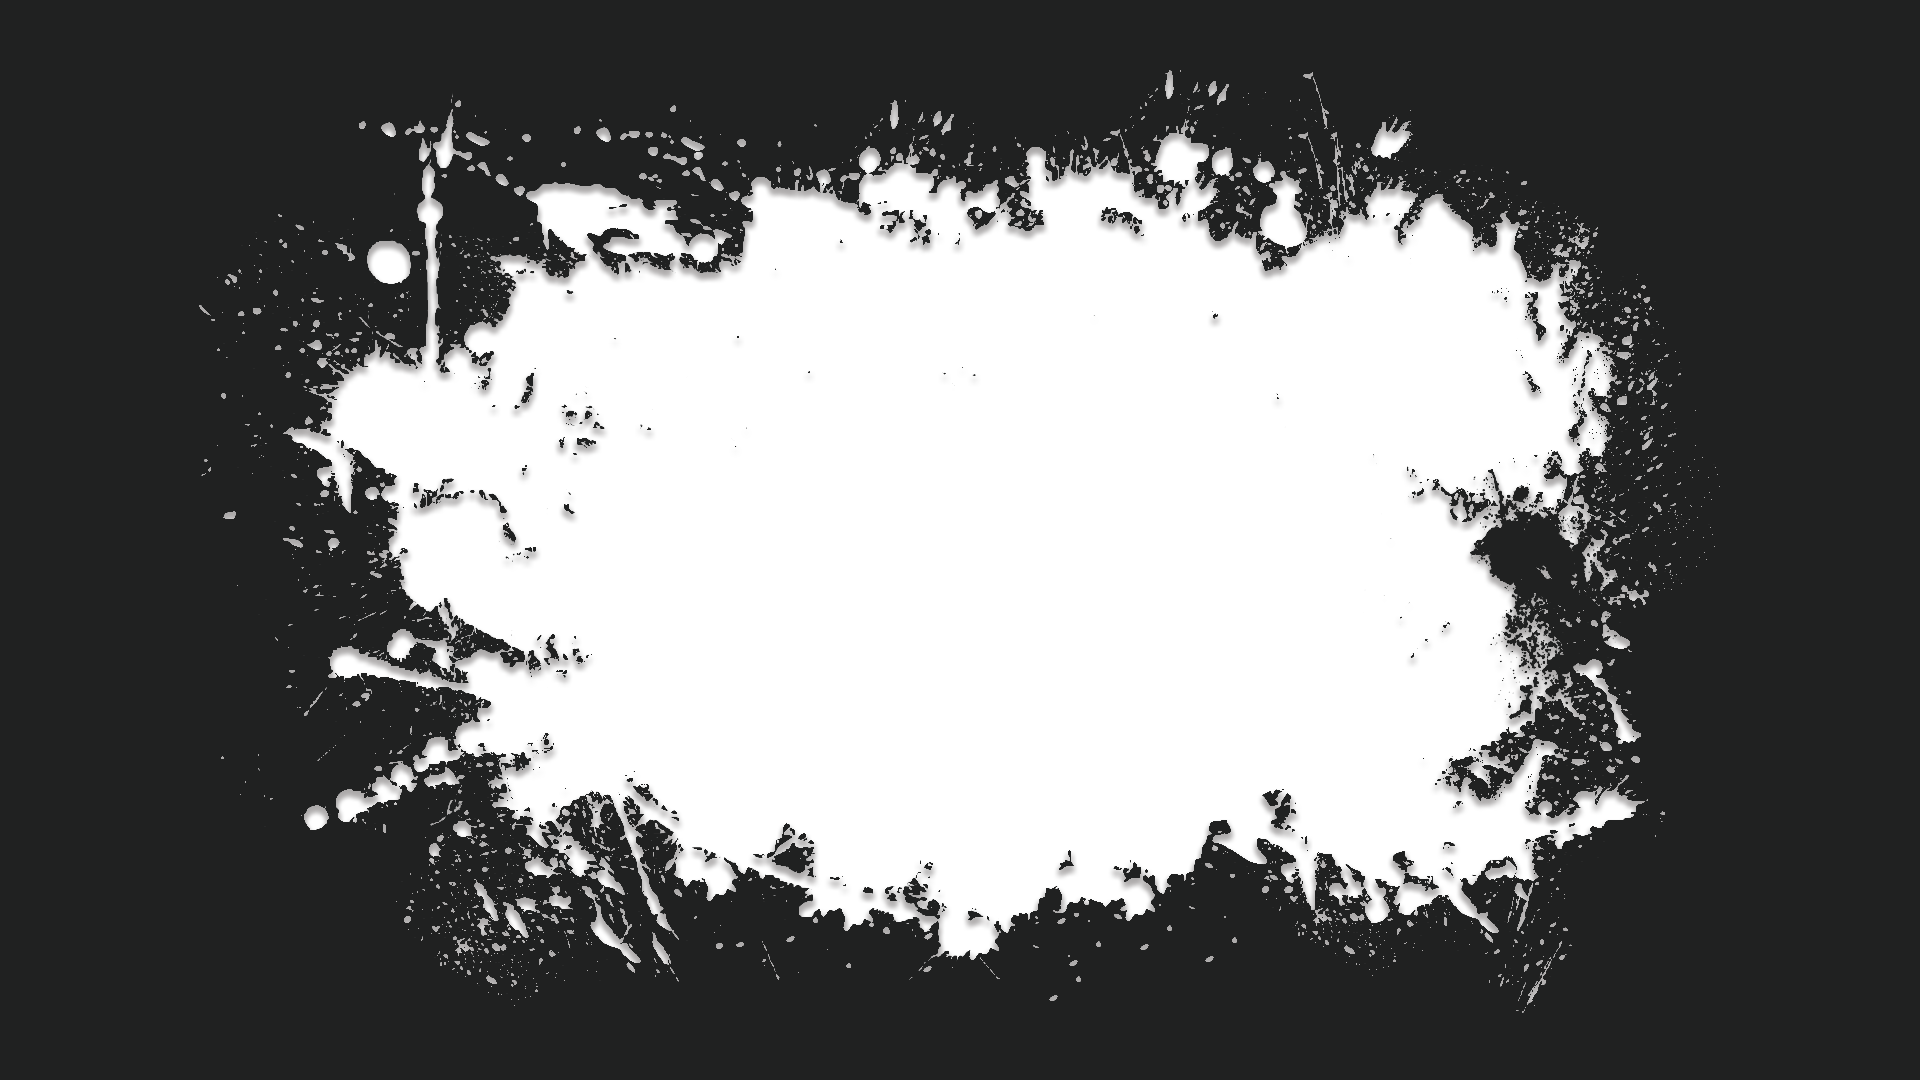
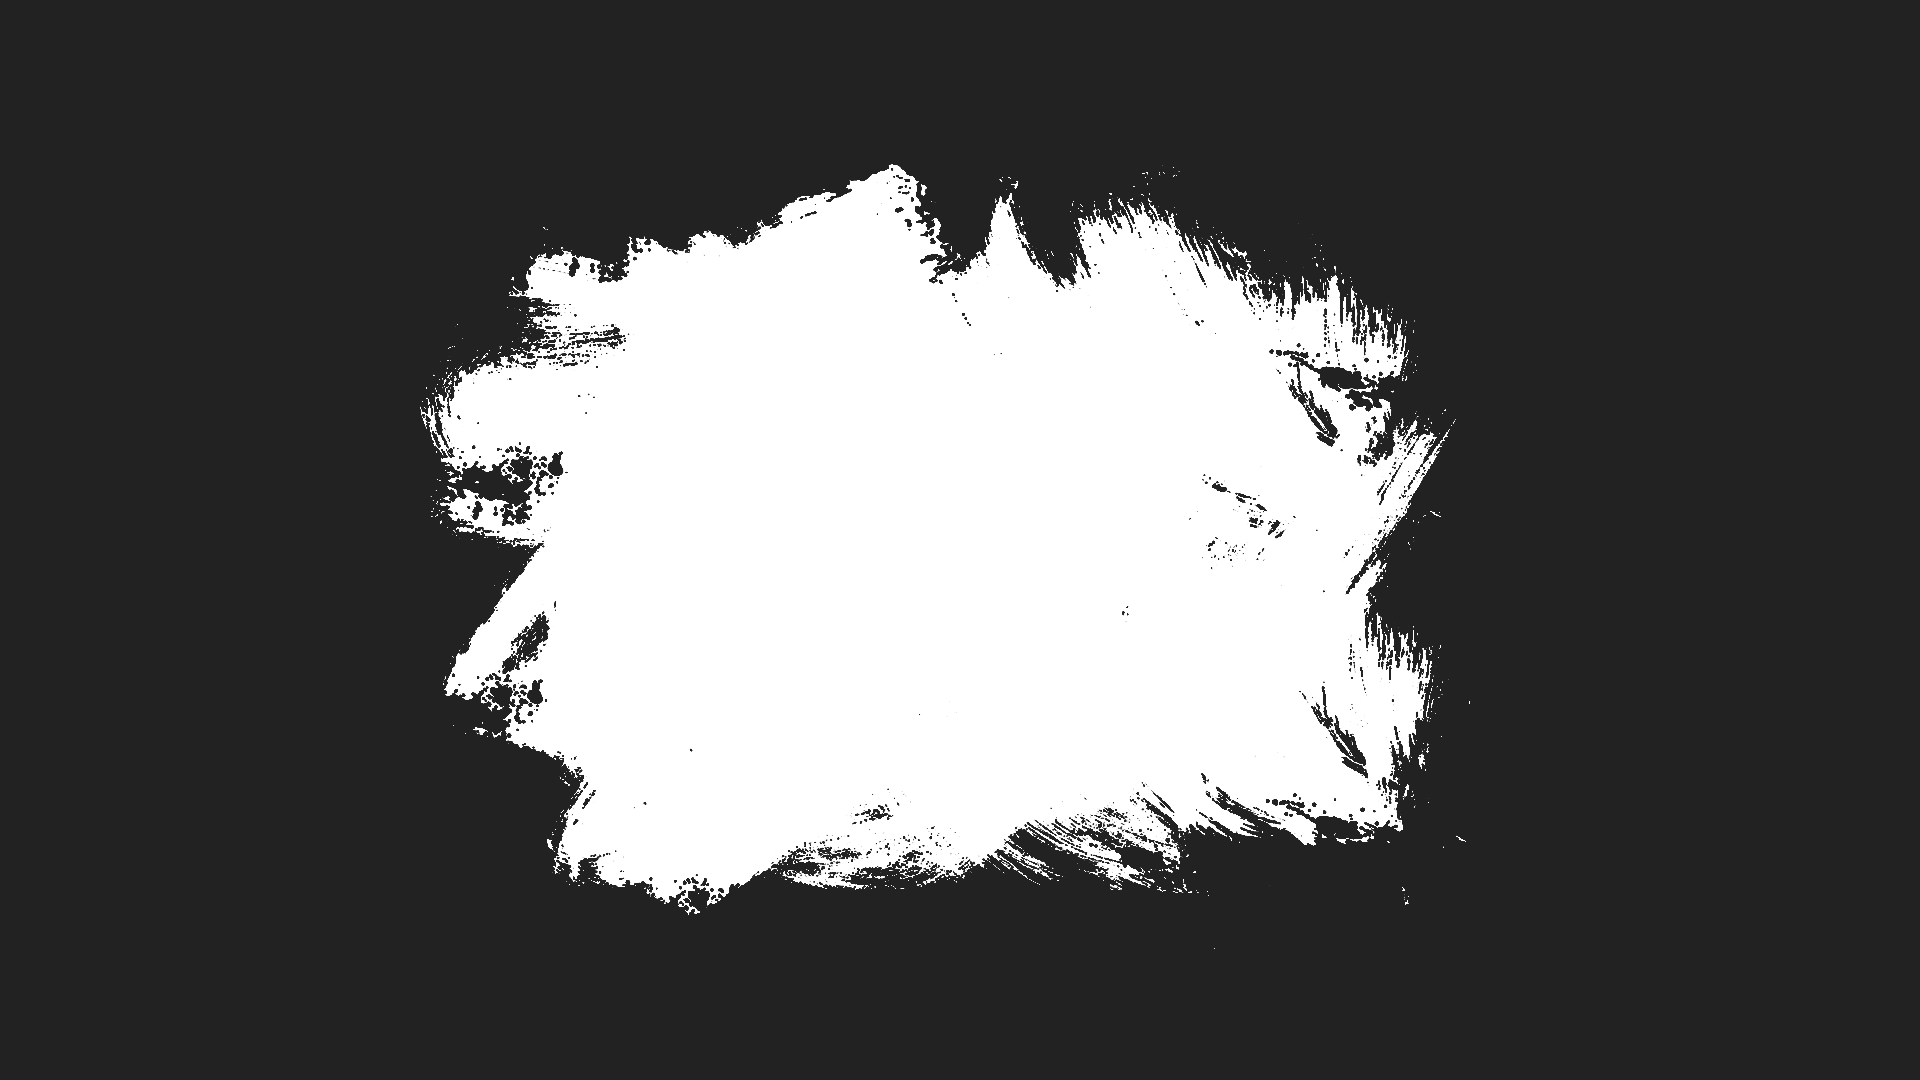
자기소개 웹 페이지 서브 메뉴 구현 및 메인 배경 수정

Changed region(s): [[0.1562, 0.0917, 0.875, 0.8861], [0.7812, 0.8861, 0.8125, 0.9167], [0.5938, 0.0611, 0.625, 0.0917]]

diff --git a/Self_Introduction/css/main.css b/Self_Introduction/css/main.css
@@ -39,6 +39,8 @@
 
     user-select: none;
 
+    object-fit: none;
+
     mix-blend-mode: screen;
 }
 
@@ -63,6 +65,8 @@
 
     user-select: none;
 
+    object-fit: none;
+
     mix-blend-mode: normal;
 }
 
@@ -72,14 +76,14 @@
 }
 
 .main__title {
-    font-size: 4vw;
+    font-size: 4em;
     letter-spacing: 4px;
 
     position: relative;
 
     color: white;
 
-    text-shadow: 0px 3px 3px rgba(0, 0, 0, 0.4);
+    text-shadow: 0px 1px 3px rgba(0, 0, 0, 0.6);
 
     z-index: 3;
 
@@ -87,12 +91,70 @@
 }
 
 .main span {
-    font-size: 1vw;
+    font-size: 1.5em;
     font-weight: 700;
 
     color: white;
 
-    text-shadow: 0px 1px 1px rgba(0, 0, 0, 0.4);
+    text-shadow: 0px 1px 1px rgba(0, 0, 0, 0.6);
 
     position: relative;
+}
+
+@media (max-width: 966px) {
+    .main__title {
+        font-size: 3.5em;
+        letter-spacing: 4px;
+    
+        position: relative;
+    
+        color: white;
+    
+        text-shadow: 0px 1px 3px rgba(0, 0, 0, 0.6);
+    
+        z-index: 3;
+    
+        transition: 0.5s;
+    }
+
+    .main span {
+        font-size: 1.3em;
+        font-weight: 700;
+    
+        color: white;
+    
+        text-shadow: 0px 1px 1px rgba(0, 0, 0, 0.6);
+    
+        position: relative;
+    }
+}
+
+@media (max-width: 768px) {
+    .main__title {
+        font-size: 2.2em;
+        letter-spacing: 4px;
+
+        position: relative;
+
+        color: white;
+
+        text-shadow: 0px 1px 3px rgba(0, 0, 0, 0.6);
+
+        z-index: 3;
+
+        transition: 0.5s;
+    }
+
+    .main span {
+        font-size: 1em;
+        font-weight: 700;
+    
+        color: white;
+    
+        text-shadow: 0px 1px 1px rgba(0, 0, 0, 0.6);
+    
+        position: relative;
+
+        z-index: 3;
+    }
 }

diff --git a/Self_Introduction/css/submenu.css b/Self_Introduction/css/submenu.css
@@ -1,0 +1,78 @@
+.toggle__submenu {
+    width: 100%;
+    height: 100%;
+
+    position: fixed;
+
+    left: -100%;
+
+    opacity: 0;
+
+    display: flex;
+    justify-content: center;
+    align-items: center;
+
+    z-index: 5;
+
+    background-color: var(--white);
+
+    transition: all 0.5s;
+}
+
+.toggle__submenu ul {
+    list-style: none;
+
+    display: flex;
+    flex-direction: column;
+    justify-content: center;
+    align-items: flex-start;
+}
+
+.toggle__submenu ul li {
+    width: 100%;
+
+    font-size: 2em;
+    font-weight: 700;
+
+    letter-spacing: 5px;
+
+    padding: 10px 25px;
+
+    border-radius: 30px;
+
+    color: var(--black);
+
+    text-transform: uppercase;
+
+    transition: 0.2s ease-in-out;
+}
+
+.toggle__submenu ul li a {
+    display: flex;
+    justify-content: flex-start;
+    align-items: center;
+}
+
+.toggle__submenu ul li a i {
+    font-size: 0.8em;
+
+    padding-top: 5px;
+    padding-right: 5px;
+}
+
+.toggle__submenu ul li:hover {
+    background-color: var(--black);
+    color: var(--white);
+}
+
+
+.toggle__submenu.active {
+    left: 0;
+    opacity: 1;
+}
+
+@media (min-width: 966px) {
+    .toggle__submenu {
+        opacity: 0 !important;
+    }
+}

diff --git a/Self_Introduction/index.html b/Self_Introduction/index.html
@@ -26,6 +26,13 @@
                 </div>
             </div>
         </header>
+        <nav class="toggle__submenu">
+            <ul>
+                <li><a><i class="fas fa-home"></i>Home</a></li>
+                <li><a><i class="fas fa-address-card"></i>About</a></li>
+                <li><a><i class="fas fa-archive"></i>PRODUCT</a></li>
+            </ul>
+        </nav>
         <section class="main">
             <div>
                 <img class="image__main" src="img/travel_picture.jpg">
@@ -37,8 +44,12 @@
                 <span>DATE OF PICTURE : 2021.11.20</span>
             </div>
         </section>
+        <section class="content">
+            <div></div>
+        </section>
 
         <script src="js/toggleBtn.js"></script>
+        <script src="js/navScroll.js"></script>
         <script src="https://kit.fontawesome.com/ef8b1ace87.js" crossorigin="anonymous"></script>
     </body>
 </html>

diff --git a/Self_Introduction/js/toggleBtn.js b/Self_Introduction/js/toggleBtn.js
@@ -5,6 +5,9 @@ const navbar = document.querySelector('header');
 const maskLight = document.querySelector('.image__mask-light');
 const maskDark = document.querySelector('.image__mask-dark');
 
+const toggleSubMenuBtn = document.querySelector('.header__toggle__menu');
+const toggleSubMenu = document.querySelector('.toggle__submenu');
+
 header__toggle.addEventListener('click', () => {
     indicator.classList.toggle('active');
     maskLight.classList.toggle('active');
@@ -12,4 +15,8 @@ header__toggle.addEventListener('click', () => {
 
     body.classList.toggle('dark');
     navbar.classList.toggle('dark');
+})
+
+toggleSubMenuBtn.addEventListener('click', () => {
+    toggleSubMenu.classList.toggle('active');
 })

diff --git a/Self_Introduction/css/style.css b/Self_Introduction/css/style.css
@@ -1,5 +1,7 @@
 @import "header.css";
 @import "main.css";
+@import "content.css";
+@import "submenu.css";
 
 * {
     margin: 0;
@@ -9,17 +11,22 @@
 
 body {
     background: var(--white);
-    transition: 0.5s;
+    -ms-overflow-style: none;
+    scrollbar-width: none;
+}
+
+body::-webkit-scrollbar {
+    display: none;
 }
 
 :root {
-    --black: #333;
+    --black: #222;
     --white: #fff;
 }
 
 .dark {
     --black: #fff;
-    --white: #333;
+    --white: #222;
 }
 
 .dark .image__mask {

diff --git a/Self_Introduction/js/navScroll.js b/Self_Introduction/js/navScroll.js
@@ -1,0 +1,11 @@
+const header = document.querySelector('header');
+
+window.addEventListener('scroll', () => {
+    if(window.scrollY > 83) {
+        header.style.background = "var(--white)";
+        header.style.boxShadow = "0px 3px 3px rgba(0, 0, 0, 0.5)"
+    } else {
+        header.style.background = "";
+        header.style.boxShadow = ""
+    }
+})

diff --git a/Self_Introduction/css/header.css b/Self_Introduction/css/header.css
@@ -3,13 +3,15 @@ header {
 
     padding: 20px 100px;
 
-    position: absolute;
+    position: fixed;
 
     display: flex;
     justify-content: space-between;
     align-items: center;
 
     z-index: 10000;
+
+    transition: all 0.5s ease-in;
 }
 
 .header__logo {

diff --git a/Self_Introduction/css/content.css b/Self_Introduction/css/content.css
@@ -1,0 +1,4 @@
+.content {
+    width: 100%;
+    height: 1000px;
+}
